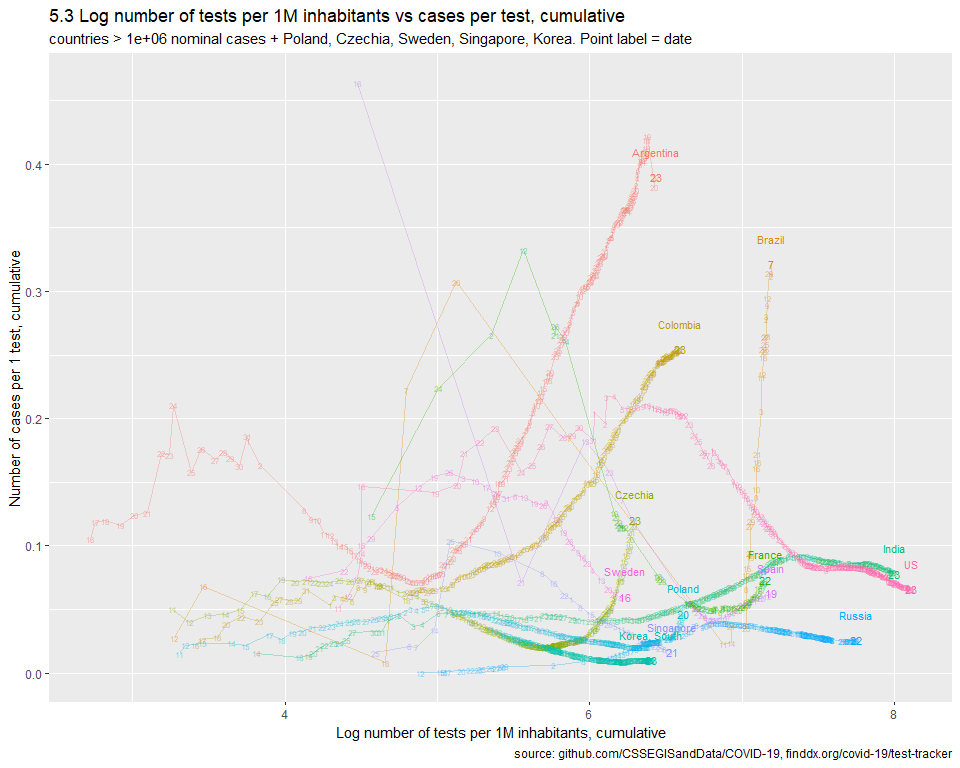
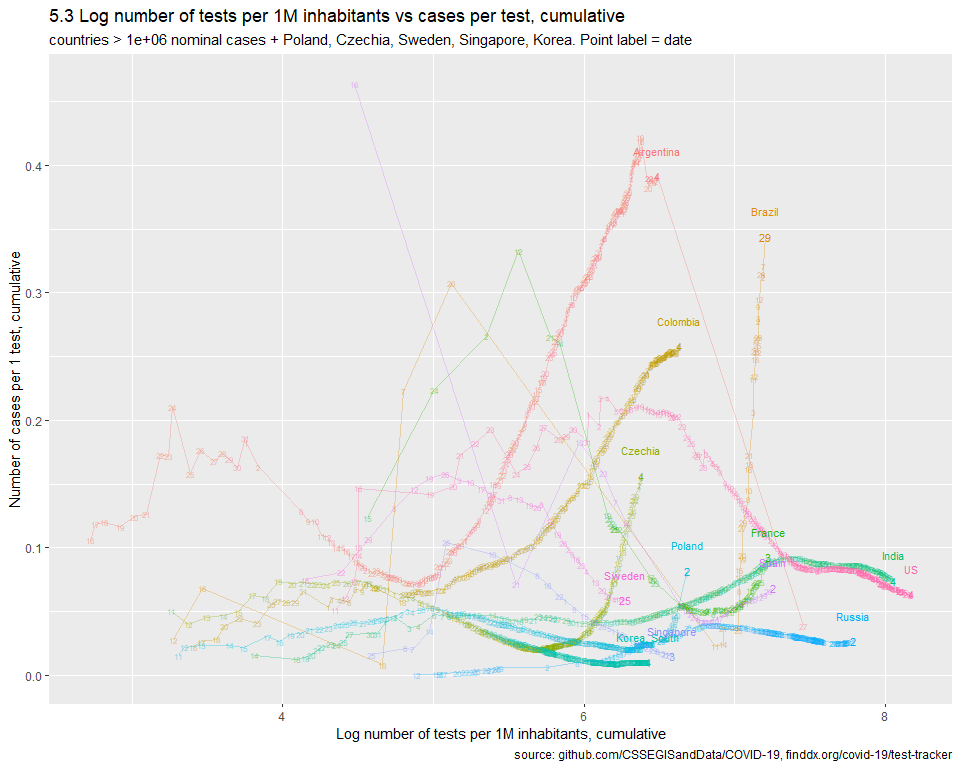
new data 05.11

diff --git a/main.md b/main.md
@@ -55,3 +55,7 @@ Removed.
 ![](main_files/figure-gfm/unnamed-chunk-17-1.png)<!-- -->
 
 ![](main_files/figure-gfm/unnamed-chunk-18-1.png)<!-- -->
+
+### 9\. Death rate
+
+Parameter - przesuniecie w czasie (14-28dni)
